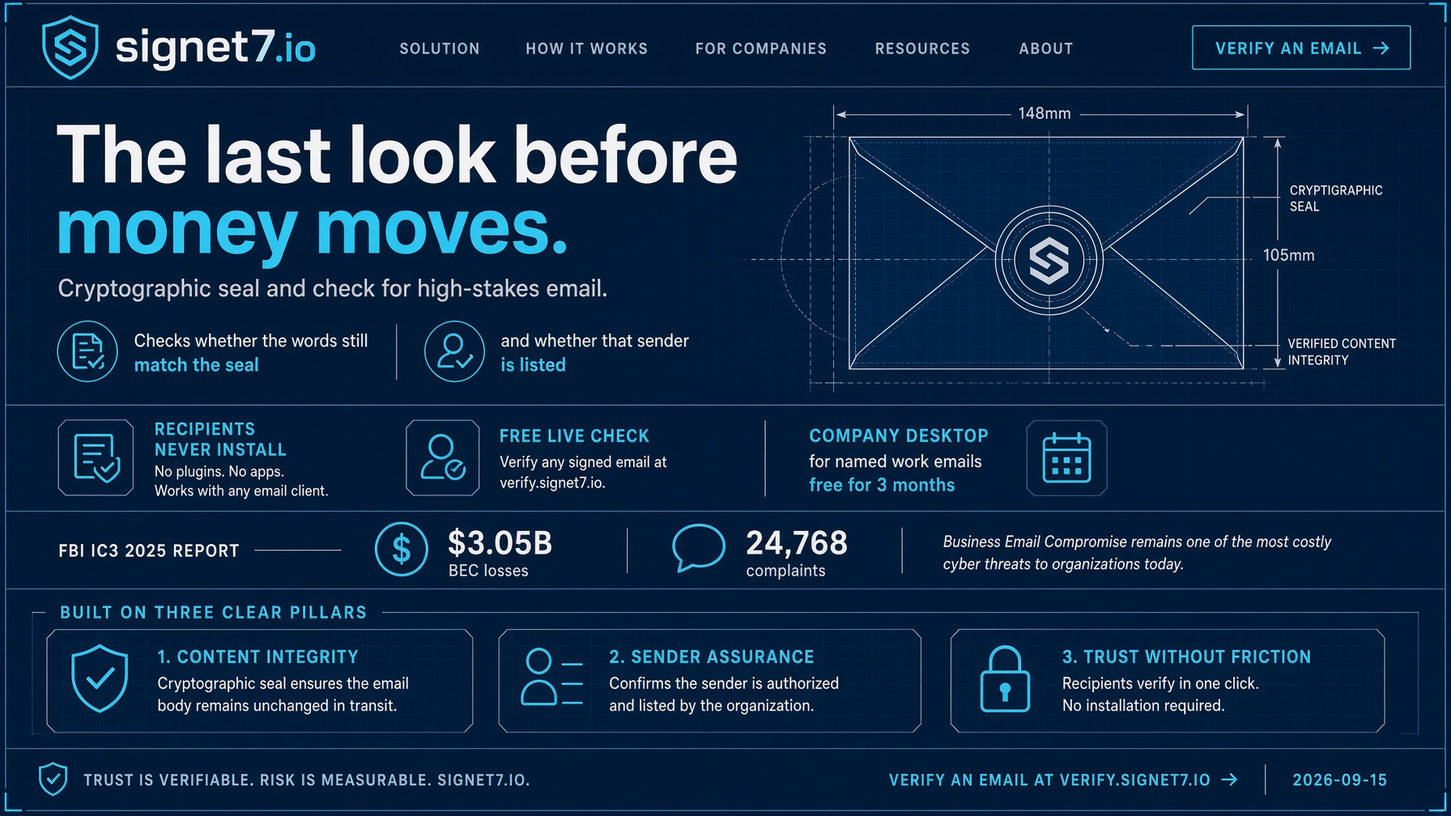
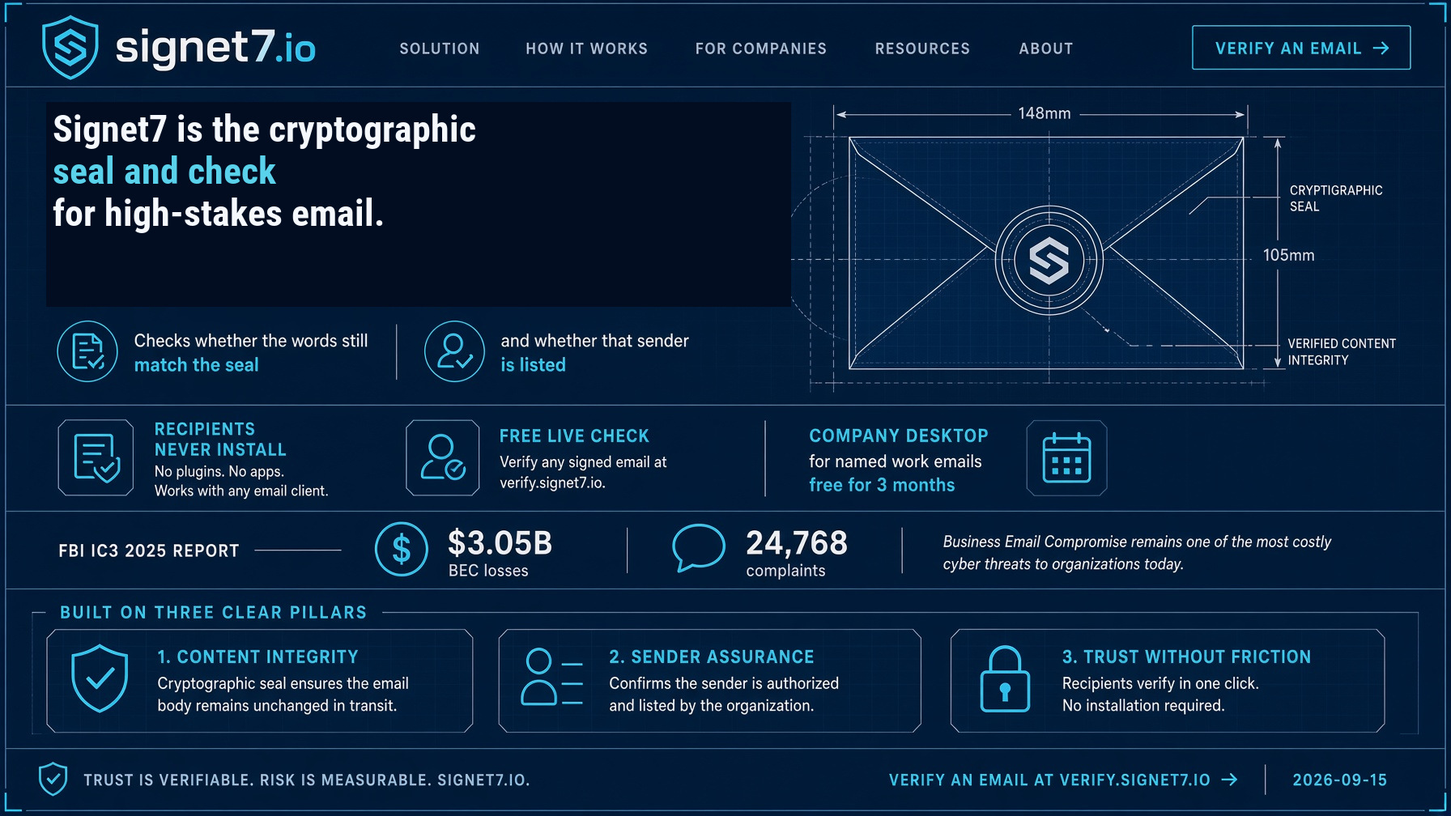
feat(site): homepage plate uses frozen H1; stop clipping the drawing (#185)
Replace last-look headline on the customer plate. Center the photo.
HTML H1 stays below, unclipped.

Changed region(s): [[0.0312, 0.123, 0.5625, 0.3998]]

diff --git a/programs.html b/programs.html
@@ -5,7 +5,7 @@
  enforceable subset. NOTE: frame-ancestors is ignored when delivered via <meta>;
  real clickjacking protection requires a header layer (Cloudflare/CloudFront) and
  is required before any verification surface is hosted on this domain. -->
-<meta http-equiv="Content-Security-Policy" content="default-src 'self'; script-src 'self'; style-src 'self'; img-src 'self'; font-src 'self'; connect-src 'self'; object-src 'none'; base-uri 'none'; form-action 'self'; frame-ancestors 'none'; upgrade-insecure-requests"><meta name="referrer" content="strict-origin-when-cross-origin"><meta http-equiv="X-Content-Type-Options" content="nosniff"><title>Programs | Signet7</title><meta name="description" content="Signet7 can seal outgoing email. Check for free. Signet7 desktop names several work emails. Each email gets its own listing. Checkout is not live."><link rel="canonical" href="https://signet7.io/programs"><meta property="og:title" content="Programs | Signet7"><meta property="og:description" content="Signet7 can seal outgoing email. Check for free. Signet7 desktop for several work emails. Checkout is not live."><meta property="og:type" content="website"><meta property="og:url" content="https://signet7.io/programs"><meta property="og:image" content="https://signet7.io/assets/blueprint/homepage.jpg?v=20260916k"><meta name="twitter:card" content="summary_large_image"><link rel="icon" type="image/png" href="assets/favicon.png"><meta name="theme-color" content="#05080d"><link rel="stylesheet" href="assets/site.css?v=20260916k"></head>
+<meta http-equiv="Content-Security-Policy" content="default-src 'self'; script-src 'self'; style-src 'self'; img-src 'self'; font-src 'self'; connect-src 'self'; object-src 'none'; base-uri 'none'; form-action 'self'; frame-ancestors 'none'; upgrade-insecure-requests"><meta name="referrer" content="strict-origin-when-cross-origin"><meta http-equiv="X-Content-Type-Options" content="nosniff"><title>Programs | Signet7</title><meta name="description" content="Signet7 can seal outgoing email. Check for free. Signet7 desktop names several work emails. Each email gets its own listing. Checkout is not live."><link rel="canonical" href="https://signet7.io/programs"><meta property="og:title" content="Programs | Signet7"><meta property="og:description" content="Signet7 can seal outgoing email. Check for free. Signet7 desktop for several work emails. Checkout is not live."><meta property="og:type" content="website"><meta property="og:url" content="https://signet7.io/programs"><meta property="og:image" content="https://signet7.io/assets/blueprint/homepage.jpg?v=20260916l"><meta name="twitter:card" content="summary_large_image"><link rel="icon" type="image/png" href="assets/favicon.png"><meta name="theme-color" content="#05080d"><link rel="stylesheet" href="assets/site.css?v=20260916l"></head>
 <body>
  <a class="skip-link" href="#main">Skip to content</a>
  <header class="site-header"><div class="container nav-wrap"><a class="brand" href="/"><svg class="cad-mark" viewBox="0 0 64 64" width="46" height="46" aria-hidden="true" focusable="false"><g fill="none" stroke="#7ed6f0" stroke-width="2.2"><path d="M12 22 L32 12 L52 22 L52 42 L32 52 L12 42 Z"/><path d="M32 12 L32 32 L12 42"/><path d="M32 32 L52 42"/></g></svg><span>Signet7</span></a> <button class="nav-toggle" type="button" aria-expanded="false" aria-controls="site-nav" aria-label="Open menu">Menu</button>
@@ -35,7 +35,7 @@
  <main id="main">
  <section class="page-hero"><div class="container"><p class="eyebrow">Commercial direction</p><h1>Seal outgoing email. Check for free. Signet7 desktop for several work emails.</h1><p class="hero-copy">Signet7 can cryptographically seal outgoing email from the mail you already use. Anyone can then verify on the website. No account. The company download names the work emails that can move money, jobs, or clients — purchasing, billing, trust, intake. Each of those emails gets its own listing. Not every laptop. Free access should buy evidence, not vanity seats.</p><div class="badge-row"><span class="badge cyan">No per-seat install</span><span class="badge gold">Checkout not live yet</span><span class="badge">$0 now</span></div></div></section>
 <figure class="blueprint-sheet">
-<img class="blueprint-plate" src="assets/blueprint/programs.jpg?v=20260916k" width="1792" height="1008" alt="Programs drawing">
+<img class="blueprint-plate" src="assets/blueprint/programs.jpg?v=20260916l" width="1792" height="1008" alt="Programs drawing">
 <figcaption>Programs drawing. Company Signet7 is free for 3 months. Checkout is not live. Recipients never install. Amounts are not a public offer.</figcaption>
 </figure>
 
@@ -56,5 +56,5 @@
 
  </main>
  <footer class="site-footer"><div class="container footer-grid"><div><strong>Signet7</strong><p>Signet7 is the cryptographic seal and check for high-stakes email.</p><p>Signet7™, 2026 All rights reserved, All wrongs revenged.</p></div><div><a href="privacy">Privacy</a><a href="ai">AI use</a><a href="providers">Data providers</a><a href="cancel">Cancel</a><a href="safety">Safety</a><a href="terms">Terms</a><a href="disclaimer">Disclaimer</a><a href="contact">Contact</a><a href="feedback">Feedback</a></div><div><p>Live check and company accounts are available. Decided prices are on the purchase page. Checkout opens separately.</p></div></div></footer>
- <script src="assets/motion.js?v=20260916k" defer></script>
+ <script src="assets/motion.js?v=20260916l" defer></script>
 </body></html>

diff --git a/index.html b/index.html
@@ -14,11 +14,11 @@
   <meta property="og:description" content="Check whether an important email still matches the seal, and whether that sender is listed.">
   <meta property="og:type" content="website">
   <meta property="og:url" content="https://signet7.io/">
-  <meta property="og:image" content="https://signet7.io/assets/blueprint/homepage.jpg?v=20260916k">
+  <meta property="og:image" content="https://signet7.io/assets/blueprint/homepage.jpg?v=20260916l">
   <link rel="canonical" href="https://signet7.io/">
   <link rel="alternate" type="application/ld+json" href="assets/ld-website.json">
   <link rel="icon" type="image/png" href="assets/favicon.png">
-  <link rel="stylesheet" href="assets/site.css?v=20260916k">
+  <link rel="stylesheet" href="assets/site.css?v=20260916l">
   <script type="application/ld+json" src="assets/ld-website.json"></script>
 </head>
 <body class="home">
@@ -59,7 +59,7 @@
   <main id="main">
     <section class="sell-hero" aria-labelledby="hero-title">
       <div class="scene-wrap hero-scene cad-scene">
-        <img class="cad-envelope blueprint-hero" src="assets/blueprint/homepage.jpg?v=20260916k" width="1792" height="1008" alt="Signet7 customer homepage drawing: cryptographic seal and check, two facts, recipients never install.">
+        <img class="cad-envelope blueprint-hero" src="assets/blueprint/homepage.jpg?v=20260916l" width="1792" height="1008" alt="Signet7 customer homepage drawing: cryptographic seal and check, two facts, recipients never install.">
       </div>
       <div class="container nutshell">
         <p class="kicker dim">DWG S7-HOME-001 · REV A · SCALE NTS</p>
@@ -79,17 +79,17 @@
         <h2>Check a message. List the work email. Keep the file.</h2>
         <div class="feature-grid">
           <article class="feat">
-            <a href="check"><img src="assets/blueprint/check.jpg?v=20260916k" width="1792" height="1008" alt="Live-check blueprint drawing."></a>
+            <a href="check"><img src="assets/blueprint/check.jpg?v=20260916l" width="1792" height="1008" alt="Live-check blueprint drawing."></a>
             <h3>Check a message</h3>
             <p>Free. No account. Save the original message and drop it on the live check. Recipients never install.</p>
           </article>
           <article class="feat">
-            <a href="download"><img src="assets/blueprint/download.jpg?v=20260916k" width="1792" height="1008" alt="Desktop download blueprint drawing."></a>
+            <a href="download"><img src="assets/blueprint/download.jpg?v=20260916l" width="1792" height="1008" alt="Desktop download blueprint drawing."></a>
             <h3>List the work email</h3>
             <p>Register first. Signet7 desktop on named work emails. Not every laptop. Recipients never install.</p>
           </article>
           <article class="feat">
-            <a href="record"><img src="assets/blueprint/evidence.jpg?v=20260916k" width="1792" height="1008" alt="Evidence-record blueprint drawing. Click to open."></a>
+            <a href="record"><img src="assets/blueprint/evidence.jpg?v=20260916l" width="1792" height="1008" alt="Evidence-record blueprint drawing. Click to open."></a>
             <h3><a href="record">Keep the file</a></h3>
             <p>The seal is on the message. That file is the record. You can show later that the words still matched.</p>
           </article>
@@ -102,9 +102,9 @@
         <p class="eyebrow">SHEET INDEX</p>
         <h2>The drawings</h2>
         <div class="feature-grid">
-          <article class="feat"><a href="product"><img src="assets/blueprint/product.jpg?v=20260916k" width="1792" height="1008" alt="Product blueprint drawing."></a><h3>Product</h3><p>Seal, check, desktop.</p></article>
-          <article class="feat"><a href="programs"><img src="assets/blueprint/programs.jpg?v=20260916k" width="1792" height="1008" alt="Programs blueprint drawing."></a><h3>Programs</h3><p>Checkout is not live. Amounts are not set.</p></article>
-          <article class="feat"><a href="docs.html"><img src="assets/blueprint/howto.jpg?v=20260916k" width="1792" height="1008" alt="How-to blueprint drawing."></a><h3>Docs</h3><p>How to check. How to install after register.</p></article>
+          <article class="feat"><a href="product"><img src="assets/blueprint/product.jpg?v=20260916l" width="1792" height="1008" alt="Product blueprint drawing."></a><h3>Product</h3><p>Seal, check, desktop.</p></article>
+          <article class="feat"><a href="programs"><img src="assets/blueprint/programs.jpg?v=20260916l" width="1792" height="1008" alt="Programs blueprint drawing."></a><h3>Programs</h3><p>Checkout is not live. Amounts are not set.</p></article>
+          <article class="feat"><a href="docs.html"><img src="assets/blueprint/howto.jpg?v=20260916l" width="1792" height="1008" alt="How-to blueprint drawing."></a><h3>Docs</h3><p>How to check. How to install after register.</p></article>
         </div>
       </div>
     </section>
@@ -117,6 +117,6 @@
       <div><p>Live check and company accounts are available.</p></div>
     </div>
   </footer>
-  <script src="assets/motion.js?v=20260916k" defer></script>
+  <script src="assets/motion.js?v=20260916l" defer></script>
 </body>
 </html>

diff --git a/integrations.html b/integrations.html
@@ -5,7 +5,7 @@
  enforceable subset. NOTE: frame-ancestors is ignored when delivered via <meta>;
  real clickjacking protection requires a header layer (Cloudflare/CloudFront) and
  is required before any verification surface is hosted on this domain. -->
-<meta http-equiv="Content-Security-Policy" content="default-src 'self'; script-src 'self'; style-src 'self'; img-src 'self'; font-src 'self'; connect-src 'self'; object-src 'none'; base-uri 'none'; form-action 'self'; frame-ancestors 'none'; upgrade-insecure-requests"><meta name="referrer" content="strict-origin-when-cross-origin"><meta http-equiv="X-Content-Type-Options" content="nosniff"><title>Integrations | Signet7 API &amp; MCP</title><meta name="description" content="Review Signet7 API/MCP-first agent gating, caller-enforcement contract, email integration candidates, and current deployment boundaries."><link rel="canonical" href="https://signet7.io/integrations"><meta property="og:title" content="Integrations | Signet7 API &amp; MCP"><meta property="og:description" content="Review Signet7 API/MCP-first agent gating, caller-enforcement contract, email integration candidates, and current deployment boundaries."><meta property="og:type" content="website"><meta property="og:url" content="https://signet7.io/integrations"><meta property="og:image" content="https://signet7.io/assets/blueprint/homepage.jpg?v=20260916k"><meta name="twitter:card" content="summary_large_image"><link rel="icon" type="image/png" href="assets/favicon.png"><meta name="theme-color" content="#05080d"><link rel="stylesheet" href="assets/site.css?v=20260916k"></head>
+<meta http-equiv="Content-Security-Policy" content="default-src 'self'; script-src 'self'; style-src 'self'; img-src 'self'; font-src 'self'; connect-src 'self'; object-src 'none'; base-uri 'none'; form-action 'self'; frame-ancestors 'none'; upgrade-insecure-requests"><meta name="referrer" content="strict-origin-when-cross-origin"><meta http-equiv="X-Content-Type-Options" content="nosniff"><title>Integrations | Signet7 API &amp; MCP</title><meta name="description" content="Review Signet7 API/MCP-first agent gating, caller-enforcement contract, email integration candidates, and current deployment boundaries."><link rel="canonical" href="https://signet7.io/integrations"><meta property="og:title" content="Integrations | Signet7 API &amp; MCP"><meta property="og:description" content="Review Signet7 API/MCP-first agent gating, caller-enforcement contract, email integration candidates, and current deployment boundaries."><meta property="og:type" content="website"><meta property="og:url" content="https://signet7.io/integrations"><meta property="og:image" content="https://signet7.io/assets/blueprint/homepage.jpg?v=20260916l"><meta name="twitter:card" content="summary_large_image"><link rel="icon" type="image/png" href="assets/favicon.png"><meta name="theme-color" content="#05080d"><link rel="stylesheet" href="assets/site.css?v=20260916l"></head>
 <body>
  <a class="skip-link" href="#main">Skip to content</a>
  <header class="site-header"><div class="container nav-wrap"><a class="brand" href="/"><svg class="cad-mark" viewBox="0 0 64 64" width="46" height="46" aria-hidden="true" focusable="false"><g fill="none" stroke="#7ed6f0" stroke-width="2.2"><path d="M12 22 L32 12 L52 22 L52 42 L32 52 L12 42 Z"/><path d="M32 12 L32 32 L12 42"/><path d="M32 32 L52 42"/></g></svg><span>Signet7</span></a> <button class="nav-toggle" type="button" aria-expanded="false" aria-controls="site-nav" aria-label="Open menu">Menu</button>
@@ -84,5 +84,5 @@
 
  </main>
  <footer class="site-footer"><div class="container footer-grid"><div><strong>Signet7</strong><p>Signet7 is the cryptographic seal and check for high-stakes email.</p><p>Signet7™, 2026 All rights reserved, All wrongs revenged.</p></div><div><a href="privacy">Privacy</a><a href="ai">AI use</a><a href="providers">Data providers</a><a href="cancel">Cancel</a><a href="safety">Safety</a><a href="terms">Terms</a><a href="disclaimer">Disclaimer</a><a href="contact">Contact</a><a href="feedback">Feedback</a></div><div><p>Live check and company accounts are available.</p></div></div></footer>
- <script src="assets/motion.js?v=20260916k" defer></script>
+ <script src="assets/motion.js?v=20260916l" defer></script>
 </body></html>

diff --git a/trust.html b/trust.html
@@ -5,7 +5,7 @@
  enforceable subset. NOTE: frame-ancestors is ignored when delivered via <meta>;
  real clickjacking protection requires a header layer (Cloudflare/CloudFront) and
  is required before any verification surface is hosted on this domain. -->
-<meta http-equiv="Content-Security-Policy" content="default-src 'self'; script-src 'self'; style-src 'self'; img-src 'self'; font-src 'self'; connect-src 'self'; object-src 'none'; base-uri 'none'; form-action 'self'; frame-ancestors 'none'; upgrade-insecure-requests"><meta name="referrer" content="strict-origin-when-cross-origin"><meta http-equiv="X-Content-Type-Options" content="nosniff"><title>Trust &amp; Evidence | Signet7</title><meta name="description" content="Understand Signet7 signature-bound sender identity, trust states, decision evidence, and whether this From address is listed."><link rel="canonical" href="https://signet7.io/trust"><meta property="og:title" content="Trust &amp; Evidence | Signet7"><meta property="og:description" content="Understand Signet7 signature-bound sender identity, trust states, decision evidence, and whether this From address is listed."><meta property="og:type" content="website"><meta property="og:url" content="https://signet7.io/trust"><meta property="og:image" content="https://signet7.io/assets/blueprint/homepage.jpg?v=20260916k"><meta name="twitter:card" content="summary_large_image"><link rel="icon" type="image/png" href="assets/favicon.png"><meta name="theme-color" content="#05080d"><link rel="stylesheet" href="assets/site.css?v=20260916k"></head>
+<meta http-equiv="Content-Security-Policy" content="default-src 'self'; script-src 'self'; style-src 'self'; img-src 'self'; font-src 'self'; connect-src 'self'; object-src 'none'; base-uri 'none'; form-action 'self'; frame-ancestors 'none'; upgrade-insecure-requests"><meta name="referrer" content="strict-origin-when-cross-origin"><meta http-equiv="X-Content-Type-Options" content="nosniff"><title>Trust &amp; Evidence | Signet7</title><meta name="description" content="Understand Signet7 signature-bound sender identity, trust states, decision evidence, and whether this From address is listed."><link rel="canonical" href="https://signet7.io/trust"><meta property="og:title" content="Trust &amp; Evidence | Signet7"><meta property="og:description" content="Understand Signet7 signature-bound sender identity, trust states, decision evidence, and whether this From address is listed."><meta property="og:type" content="website"><meta property="og:url" content="https://signet7.io/trust"><meta property="og:image" content="https://signet7.io/assets/blueprint/homepage.jpg?v=20260916l"><meta name="twitter:card" content="summary_large_image"><link rel="icon" type="image/png" href="assets/favicon.png"><meta name="theme-color" content="#05080d"><link rel="stylesheet" href="assets/site.css?v=20260916l"></head>
 <body>
  <a class="skip-link" href="#main">Skip to content</a>
  <header class="site-header"><div class="container nav-wrap"><a class="brand" href="/"><svg class="cad-mark" viewBox="0 0 64 64" width="46" height="46" aria-hidden="true" focusable="false"><g fill="none" stroke="#7ed6f0" stroke-width="2.2"><path d="M12 22 L32 12 L52 22 L52 42 L32 52 L12 42 Z"/><path d="M32 12 L32 32 L12 42"/><path d="M32 32 L52 42"/></g></svg><span>Signet7</span></a> <button class="nav-toggle" type="button" aria-expanded="false" aria-controls="site-nav" aria-label="Open menu">Menu</button>
@@ -63,5 +63,5 @@
 
  </main>
  <footer class="site-footer"><div class="container footer-grid"><div><strong>Signet7</strong><p>Signet7 is the cryptographic seal and check for high-stakes email.</p><p>Signet7™, 2026 All rights reserved, All wrongs revenged.</p></div><div><a href="privacy">Privacy</a><a href="ai">AI use</a><a href="providers">Data providers</a><a href="cancel">Cancel</a><a href="safety">Safety</a><a href="terms">Terms</a><a href="disclaimer">Disclaimer</a><a href="contact">Contact</a><a href="feedback">Feedback</a></div><div><p>Live check and company accounts are available.</p></div></div></footer>
- <script src="assets/motion.js?v=20260916k" defer></script>
+ <script src="assets/motion.js?v=20260916l" defer></script>
 </body></html>

diff --git a/product.html b/product.html
@@ -16,10 +16,10 @@
  <meta property="og:description" content="Signet7 can seal the email. Recipients then verify. Recipients do not install.">
  <meta property="og:type" content="website">
  <meta property="og:url" content="https://signet7.io/product">
- <meta property="og:image" content="https://signet7.io/assets/blueprint/homepage.jpg?v=20260916k">
+ <meta property="og:image" content="https://signet7.io/assets/blueprint/homepage.jpg?v=20260916l">
  <meta name="twitter:card" content="summary_large_image">
  <link rel="icon" type="image/png" href="assets/favicon.png">
- <link rel="stylesheet" href="assets/site.css?v=20260916k">
+ <link rel="stylesheet" href="assets/site.css?v=20260916l">
 </head>
 <body>
  <a class="skip-link" href="#main">Skip to content</a>
@@ -65,7 +65,7 @@
  </div>
 </section>
 <figure class="blueprint-sheet">
-<img class="blueprint-plate" src="assets/blueprint/product.jpg?v=20260916k" width="1792" height="1008" alt="Product blueprint drawing">
+<img class="blueprint-plate" src="assets/blueprint/product.jpg?v=20260916l" width="1792" height="1008" alt="Product blueprint drawing">
 <figcaption>Product drawing. Seal, check, and the company desktop. Recipients never install. Checkout is not live. No demo CTA.</figcaption>
 </figure>
 
@@ -101,9 +101,9 @@
    <article class="card" id="watch"><h3>Signet7 desktop</h3><p>Signet7 desktop on one office computer. Several named work emails. It reads incoming on that set. Opt-in stamp when you send, still in your mail app. Ordinary mail stays quiet. It shouts if a stamp is torn.</p><p id="product-records-vault">Optional encrypted records vault on that computer for money and account mail. You hold the recovery key. Cap is 10 GB. Warning at 50%. Export a zip before 90%. The public website check does not keep the letter. Recipients never use the vault. Not a court stamp.</p><p><a href="register">Signet7 desktop</a></p></article>
  </div>
  <div class="art-trio">
-  <figure><img src="assets/blueprint/check.jpg?v=20260916k" width="1792" height="1008" alt="Live-check blueprint drawing."><figcaption>The check</figcaption></figure>
-  <figure><img src="assets/blueprint/download.jpg?v=20260916k" width="1792" height="1008" alt="Desktop download blueprint drawing."><figcaption>Signet7 desktop</figcaption></figure>
-  <figure><a href="record"><img src="assets/blueprint/evidence.jpg?v=20260916k" width="1792" height="1008" alt="Evidence-record blueprint drawing."></a><figcaption>Keep the file</figcaption></figure>
+  <figure><img src="assets/blueprint/check.jpg?v=20260916l" width="1792" height="1008" alt="Live-check blueprint drawing."><figcaption>The check</figcaption></figure>
+  <figure><img src="assets/blueprint/download.jpg?v=20260916l" width="1792" height="1008" alt="Desktop download blueprint drawing."><figcaption>Signet7 desktop</figcaption></figure>
+  <figure><a href="record"><img src="assets/blueprint/evidence.jpg?v=20260916l" width="1792" height="1008" alt="Evidence-record blueprint drawing."></a><figcaption>Keep the file</figcaption></figure>
  </div>
  <p class="section-intro">Look up a company when you enroll. Checkout is not live. Engineers: the contract lives on <a href="docs#spec">Docs</a>.</p>
  <p><a href="scenarios">Send and receive</a> · <a href="programs">Programs</a> · <a href="enterprise">Enterprise</a> · <a href="pilot">Pilot</a> · <a href="integrations">Integrations</a> · <a href="pay">Pay</a></p>
@@ -121,6 +121,6 @@
  </section>
  </main>
  <footer class="site-footer"><div class="container footer-grid"><div><strong>Signet7</strong><p>Signet7 is the cryptographic seal and check for high-stakes email.</p><p>Signet7™, 2026 All rights reserved, All wrongs revenged.</p></div><div><a href="privacy">Privacy</a><a href="ai">AI use</a><a href="providers">Data providers</a><a href="cancel">Cancel</a><a href="safety">Safety</a><a href="terms">Terms</a><a href="disclaimer">Disclaimer</a><a href="contact">Contact</a><a href="feedback">Feedback</a></div><div><p>Live check and company accounts are available.</p></div></div></footer>
- <script src="assets/motion.js?v=20260916k" defer></script>
+ <script src="assets/motion.js?v=20260916l" defer></script>
 </body>
 </html>

diff --git a/about.html b/about.html
@@ -13,14 +13,14 @@
  <meta property="og:description" content="Meet the Signet7 founding team and the mission to help people cryptographically seal consequential email and check that seal before they act.">
  <meta property="og:type" content="website">
  <meta property="og:url" content="https://signet7.io/about">
- <meta property="og:image" content="https://signet7.io/assets/blueprint/homepage.jpg?v=20260916k">
+ <meta property="og:image" content="https://signet7.io/assets/blueprint/homepage.jpg?v=20260916l">
  <meta name="twitter:card" content="summary_large_image">
  <meta name="description" content="Meet the Signet7 founding team and the mission to help people cryptographically seal consequential email and check that seal before they act.">
  <meta name="theme-color" content="#05080d">
  <title>Team and Mission | Signet7</title>
  <link rel="icon" type="image/png" href="assets/favicon.png">
  <link rel="apple-touch-icon" href="assets/apple-touch-icon.png">
- <link rel="stylesheet" href="assets/site.css?v=20260916k">
+ <link rel="stylesheet" href="assets/site.css?v=20260916l">
 </head>
 <body>
  <a class="skip-link" href="#main">Skip to content</a>
@@ -70,11 +70,11 @@
  </div>
  </section>
 <figure class="blueprint-sheet">
-<img class="blueprint-plate" src="assets/blueprint/about.jpg?v=20260916k" width="1792" height="1008" alt="Signet7 founding team drawing: Samuel J. Sanderson, Founder; Justin D. Daines, CO-Founder; Josh S. Riley, Founding Team Member; George Terris, marketing.">
+<img class="blueprint-plate" src="assets/blueprint/about.jpg?v=20260916l" width="1792" height="1008" alt="Signet7 founding team drawing: Samuel J. Sanderson, Founder; Justin D. Daines, CO-Founder; Josh S. Riley, Founding Team Member; George Terris, marketing.">
 <figcaption>Founding team drawing. Working roles for a pre-formation project. Not officer titles. Checkout is not live.</figcaption>
 </figure>
 <figure class="blueprint-sheet">
-<img class="blueprint-plate" src="assets/blueprint/about-cyber.jpg?v=20260916k" width="1792" height="1008" alt="Signet7 about drawing, cyber variant.">
+<img class="blueprint-plate" src="assets/blueprint/about-cyber.jpg?v=20260916l" width="1792" height="1008" alt="Signet7 about drawing, cyber variant.">
 <figcaption>Same facts. Recipients never install. Company Signet7 is free for 3 months.</figcaption>
 </figure>
 
@@ -205,6 +205,6 @@
  <div><p>Live check and company accounts are available.</p></div>
  </div>
  </footer>
- <script src="assets/motion.js?v=20260916k" defer></script>
+ <script src="assets/motion.js?v=20260916l" defer></script>
 </body>
 </html>

diff --git a/docs.html b/docs.html
@@ -13,15 +13,15 @@
  <meta property="og:description" content="How to seal outgoing email, then verify a message, and use Outlook, Apple Mail, Gmail, or Thunderbird with Signet7.">
  <meta property="og:type" content="website">
  <meta property="og:url" content="https://signet7.io/docs">
- <meta property="og:image" content="https://signet7.io/assets/blueprint/homepage.jpg?v=20260916k">
+ <meta property="og:image" content="https://signet7.io/assets/blueprint/homepage.jpg?v=20260916l">
  <meta name="twitter:card" content="summary_large_image">
  <meta name="description" content="How to seal outgoing email, then verify a message, and use Outlook, Apple Mail, Gmail, or Thunderbird with Signet7.">
  <meta name="theme-color" content="#05080d">
  <title>Documentation | Signet7</title>
  <link rel="icon" type="image/png" href="assets/favicon.png">
  <link rel="apple-touch-icon" href="assets/apple-touch-icon.png">
- <link rel="stylesheet" href="assets/site.css?v=20260916k">
- <link rel="stylesheet" href="assets/docs.css?v=20260916k">
+ <link rel="stylesheet" href="assets/site.css?v=20260916l">
+ <link rel="stylesheet" href="assets/docs.css?v=20260916l">
 </head>
 <body class="docs-manual">
  <a class="skip-link" href="#main">Skip to content</a>
@@ -96,7 +96,7 @@
  </div>
  </section>
 <figure class="blueprint-sheet">
-<img class="blueprint-plate" src="assets/blueprint/howto.jpg?v=20260916k" width="1792" height="1008" alt="Sixty-second check drawing">
+<img class="blueprint-plate" src="assets/blueprint/howto.jpg?v=20260916l" width="1792" height="1008" alt="Sixty-second check drawing">
 <figcaption>Sixty-second check drawing. Register first for the company zip.</figcaption>
 </figure>
 
@@ -395,7 +395,7 @@
  <div><p>Live check and company accounts are available.</p></div>
  </div>
  </footer>
- <script src="assets/motion.js?v=20260916k" defer></script>
+ <script src="assets/motion.js?v=20260916l" defer></script>
  <script src="assets/docs-nav.js?v=20260830a" defer></script>
 </body>
 </html>

diff --git a/vsn.html b/vsn.html
@@ -18,7 +18,7 @@
  <meta property="og:image" content="https://signet7.io/assets/og-link-two.png">
  <link rel="canonical" href="https://signet7.io/vsn">
  <link rel="icon" type="image/png" href="assets/favicon.png">
- <link rel="stylesheet" href="assets/site.css?v=20260916k">
+ <link rel="stylesheet" href="assets/site.css?v=20260916l">
 </head>
 <body>
  <a class="skip-link" href="#main">Skip to content</a>
@@ -62,7 +62,7 @@
 <p class="hero-copy">Mail between those two addresses can be checked. Recipients see Listed, Not listed, or Listing doesn’t match this address. DNS keys if they published TXT. Hosted listings after they enroll. Not a phone book of every company. If you are using Signet7, the other company gets the free check and an invite — they do not install Signet7 desktop unless they want to. If they also run Signet7, listing and the stamp happen when you send. Invite once per recipient. Mail comes from Signet7, not inside the business letter.</p>
 <p class="hero-actions"><a class="button button-primary" href="https://verify.signet7.io/invite">Invite landing</a>
 <a class="button button-secondary" href="https://verify.signet7.io/email/verify">Live check</a></p>
-<figure class="art-hero"><img src="assets/blueprint/architecture.jpg?v=20260916k" width="1792" height="1008" alt="Signet7 surface-map blueprint drawing."></figure>
+<figure class="art-hero"><img src="assets/blueprint/architecture.jpg?v=20260916l" width="1792" height="1008" alt="Signet7 surface-map blueprint drawing."></figure>
 
 </div></section>
 
@@ -74,6 +74,6 @@
  <div><p>Live check and company accounts are available.</p></div>
  </div>
  </footer>
- <script src="assets/motion.js?v=20260916k" defer></script>
+ <script src="assets/motion.js?v=20260916l" defer></script>
 </body>
 </html>

diff --git a/download.html b/download.html
@@ -15,10 +15,10 @@
  <meta property="og:description" content="Download Signet7 desktop for several work emails. Recipients use the live check.">
  <meta property="og:type" content="website">
  <meta property="og:url" content="https://signet7.io/download">
- <meta property="og:image" content="https://signet7.io/assets/blueprint/homepage.jpg?v=20260916k">
+ <meta property="og:image" content="https://signet7.io/assets/blueprint/homepage.jpg?v=20260916l">
  <link rel="canonical" href="https://signet7.io/download">
  <link rel="icon" type="image/png" href="assets/favicon.png">
- <link rel="stylesheet" href="assets/site.css?v=20260916k">
+ <link rel="stylesheet" href="assets/site.css?v=20260916l">
  <link rel="stylesheet" href="assets/download.css">
  <link rel="stylesheet" href="assets/install-chooser.css?v=20260831c">
 </head>
@@ -72,7 +72,7 @@
  </div>
  </section>
 <figure class="blueprint-sheet">
-<img class="blueprint-plate" src="assets/blueprint/download.jpg?v=20260916k" width="1792" height="1008" alt="Desktop drawing">
+<img class="blueprint-plate" src="assets/blueprint/download.jpg?v=20260916l" width="1792" height="1008" alt="Desktop drawing">
 <figcaption>Desktop drawing. Register first. The zip is on the company desk after sign-in.</figcaption>
 </figure>
 
@@ -143,7 +143,7 @@
  <div><p>Live check and company accounts are available.</p></div>
  </div>
  </footer>
- <script src="assets/motion.js?v=20260916k" defer></script>
+ <script src="assets/motion.js?v=20260916l" defer></script>
  <script src="assets/download.js" defer></script>
  <script src="assets/install-chooser.js?v=20260831c" defer></script>
 </body>

diff --git a/pilot.html b/pilot.html
@@ -12,11 +12,11 @@
  <meta property="og:description" content="A bounded four-week Signet7 Founding Design Partner evaluation for one consequential email workflow: payment instructions.">
  <meta property="og:type" content="website">
  <meta property="og:url" content="https://signet7.io/pilot">
- <meta property="og:image" content="https://signet7.io/assets/blueprint/homepage.jpg?v=20260916k">
+ <meta property="og:image" content="https://signet7.io/assets/blueprint/homepage.jpg?v=20260916l">
  <meta name="twitter:card" content="summary_large_image">
  <meta name="description" content="A bounded four-week Signet7 Founding Design Partner evaluation for one consequential email workflow: payment instructions.">
  <meta name="theme-color" content="#05080d"><title>Founding Design Partner Pilot | Signet7</title>
- <link rel="icon" type="image/png" href="assets/favicon.png"><link rel="apple-touch-icon" href="assets/apple-touch-icon.png"><link rel="stylesheet" href="assets/site.css?v=20260916k">
+ <link rel="icon" type="image/png" href="assets/favicon.png"><link rel="apple-touch-icon" href="assets/apple-touch-icon.png"><link rel="stylesheet" href="assets/site.css?v=20260916l">
 </head>
 <body>
  <a class="skip-link" href="#main">Skip to content</a>
@@ -96,6 +96,6 @@
  <div><p>Live check and company accounts are available.</p></div>
  </div>
  </footer>
- <script src="assets/motion.js?v=20260916k" defer></script>
+ <script src="assets/motion.js?v=20260916l" defer></script>
 </body>
 </html>

diff --git a/faq.html b/faq.html
@@ -15,10 +15,10 @@
  <meta property="og:description" content="Plain answers: what to do with an important email, what verified means, and whether you write mail inside Signet7.">
  <meta property="og:type" content="website">
  <meta property="og:url" content="https://signet7.io/faq">
- <meta property="og:image" content="https://signet7.io/assets/blueprint/homepage.jpg?v=20260916k">
+ <meta property="og:image" content="https://signet7.io/assets/blueprint/homepage.jpg?v=20260916l">
  <link rel="canonical" href="https://signet7.io/faq">
  <link rel="icon" type="image/png" href="assets/favicon.png">
- <link rel="stylesheet" href="assets/site.css?v=20260916k">
+ <link rel="stylesheet" href="assets/site.css?v=20260916l">
 </head>
 <body>
  <a class="skip-link" href="#main">Skip to content</a>
@@ -62,7 +62,7 @@
  </div>
 </section>
 <figure class="blueprint-sheet">
-<img class="blueprint-plate" src="assets/blueprint/faq.jpg?v=20260916k" width="1792" height="1008" alt="FAQ drawing">
+<img class="blueprint-plate" src="assets/blueprint/faq.jpg?v=20260916l" width="1792" height="1008" alt="FAQ drawing">
 <figcaption>FAQ drawing. Recipients never install. A match does not approve payment. Checkout is not live.</figcaption>
 </figure>
 
@@ -94,6 +94,6 @@
  <div><p>Live check and company accounts are available.</p></div>
  </div>
  </footer>
- <script src="assets/motion.js?v=20260916k" defer></script>
+ <script src="assets/motion.js?v=20260916l" defer></script>
 </body>
 </html>

diff --git a/terms.html b/terms.html
@@ -13,7 +13,7 @@
   <meta property="og:description" content="Review draft Signet7 terms for automated consequential-email evidence verification, dashboard administration, integrations, and customer responsibilities.">
   <meta property="og:type" content="website">
   <meta property="og:url" content="https://signet7.io/terms">
-  <meta property="og:image" content="https://signet7.io/assets/blueprint/homepage.jpg?v=20260916k">
+  <meta property="og:image" content="https://signet7.io/assets/blueprint/homepage.jpg?v=20260916l">
   <meta name="twitter:card" content="summary_large_image">
   <meta name="robots" content="noindex, nofollow">
   <meta name="description" content="Review draft Signet7 terms for automated consequential-email evidence verification, dashboard administration, integrations, and customer responsibilities.">
@@ -21,7 +21,7 @@
   <title>Terms of Service | Signet7</title>
   <link rel="icon" type="image/png" href="assets/favicon.png">
   <link rel="apple-touch-icon" href="assets/apple-touch-icon.png">
-  <link rel="stylesheet" href="assets/site.css?v=20260916k">
+  <link rel="stylesheet" href="assets/site.css?v=20260916l">
 </head>
 <body>
   <a class="skip-link" href="#main">Skip to content</a>
@@ -119,6 +119,6 @@
       <div><p>Live check and company accounts are available.</p></div>
     </div>
   </footer>
-  <script src="assets/motion.js?v=20260916k" defer></script>
+  <script src="assets/motion.js?v=20260916l" defer></script>
 </body>
 </html>
